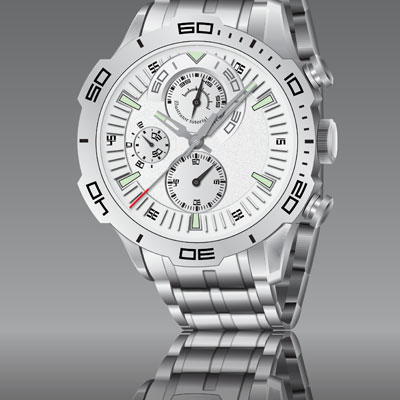
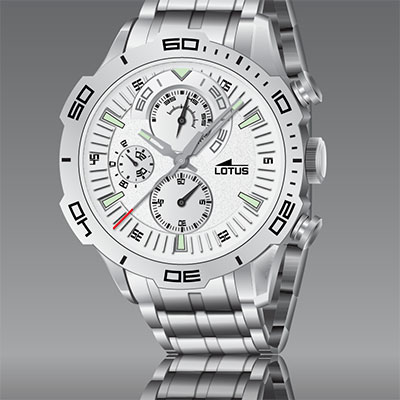
Add lotus

diff --git a/trabajo/lotus/index.html b/trabajo/lotus/index.html
@@ -1,0 +1,103 @@
+<!DOCTYPE html>
+<html>
+	<head>
+		<link href='http://fonts.googleapis.com/css?family=Lato:100,300,400,700,900' rel='stylesheet' type='text/css'>
+		<link rel="stylesheet" href="../../css/normalize.css">
+		<link rel="stylesheet" href="../../css/bootstrap.css">
+		<link rel="stylesheet" href="../../css/style.css">
+		<link rel="stylesheet" href="../../css/icons.css">
+		<meta charset="UTF-8">
+		<meta name="viewport" content="width=device-width, initial-scale=1">
+		<link type="image/vnd.microsoft.icon" rel="shortcut icon" href="../../img/favicon.ico">	
+		<title>Pimpoyo</title>
+	</head>
+	<body>
+		<div class="menu">
+			<a class="navbar-brand" href="file:///Users/pi/Desktop/PFM/web/index.html">
+				<span class="icon-logo"> </span>
+			</a>
+			<nav class="navbar navbar-default navbar-custom" role="navigation">
+    			<div class="navbar-header">
+					<button type="button" class="navbar-toggle collapsed" data-toggle="collapse" data-target="#bs-menu" aria-expanded="false">
+            			<span class="icon-bar"></span>
+            			<span class="icon-bar"></span>
+            			<span class="icon-bar"></span>
+        			</button>
+    			</div>
+    			<div class="collapse navbar-collapse" id="bs-menu">
+        			<ul class="nav nav-stacked">
+						<li id="l1"><a data-hover="Portfolio" href="../../index.html#portfolio" class="portfolio">Portfolio</a></li>
+						<li id="l2"><a data-hover="Sobre.mí" href="../../index.html#sobremi" class="sobre-mi">Sobre mí</a></li>
+						<li id="l3"><a data-hover="Contacto" href="../../index.html#contacto" class="contacto">Contacto</a></li>
+        			</ul>
+    			</div><!-- /.navbar-collapse -->
+			</nav>
+			<nav class="navbar navbar-default navbar-custom secundaria" role="navigation">
+				<a href="https://es-es.facebook.com/people/Ana-Isabel-G%C3%B3mez-Pimpoyo-Fern%C3%A1ndez/100008501859487">
+					<div class="social">
+						<span class="icon-fb"> </span>
+					</div>
+				</a>
+				<a href="https://twitter.com/p1mp0y0">
+					<div class="social">
+						<span class="icon-twitter"> </span>
+					</div>
+				</a>
+				<a href="https://www.linkedin.com/in/ana-isabel-g%C3%B3mez-pimpoyo-fern%C3%A1ndez-7a0b97b3">
+					<div class="social">
+						<span class="icon-linkedin"> </span>
+					</div>
+				</a>
+				<a href="https://github.com/pimpoyo">
+					<div class="social">
+						<span class="icon-github"> </span>
+					</div>
+				</a>
+			</nav>
+			<div class="bottom">
+				<span class="icon-logo-short"> </span>
+			</div>
+		</div>
+		<div class="contenido contenido2">
+			<div class="trabajo-texto">
+				<h1 class="titulo">Lotus</h1>
+				<p>Ilustración vectorial de un reloj</p>
+				<p>Es una ilustración hiperrealista realizada en Adobe Illustrator.</p>
+				<p>Autor: Ana Isabel Gómez-Pimpoyo</p>
+				<p>Fecha: Noviembre 2014</p>
+				<p>Categoría: Diseño gráfico</p>
+			</div>
+			<div class="imagenes">
+				<img id="malla-reloj" src="img/malla-reloj.jpg" alt="img">
+				<img id="detalle-reloj" src="img/detalle-reloj.jpg" alt="img">
+			</div>
+		</div> <!-- contenido -->
+		<footer>
+			<div class="footer">
+				<a href="https://es-es.facebook.com/people/Ana-Isabel-G%C3%B3mez-Pimpoyo-Fern%C3%A1ndez/100008501859487">
+					<div>
+						<span class="icon-fb"> </span>
+					</div>
+				</a>
+				<a href="https://twitter.com/p1mp0y0">
+					<div>
+						<span class="icon-twitter"> </span>
+					</div>
+				</a>
+				<a href="https://www.linkedin.com/in/ana-isabel-g%C3%B3mez-pimpoyo-fern%C3%A1ndez-7a0b97b3">
+					<div>
+						<span class="icon-linkedin"> </span>
+					</div>
+				</a>
+				<a href="https://github.com/pimpoyo">
+					<div>
+						<span class="icon-github"> </span>
+					</div>
+				</a>
+			</div>
+		</footer>
+		<script src="https://ajax.googleapis.com/ajax/libs/jquery/1.11.3/jquery.min.js"></script>
+		<script src="../../js/bootstrap.js"></script>
+		<script src="../../js/validator.js"></script>
+	</body>
+</html>

diff --git a/index.html b/index.html
@@ -84,13 +84,13 @@
 						</a>
 					</div>	
 			    	<div class="ih-item square effect13 bottom_to_top">
-						<a href="#">
+						<a href="trabajo/lotus/index.html">
         					<div class="img">
-								<img src="img/main-artdeco.jpg" alt="img">
+								<img src="img/main-reloj.jpg" alt="img">
 							</div>
         					<div class="info">
-          						<h3>Heading here</h3>
-          						<p>Description goes here</p>
+          						<h3>Gráfico</h3>
+          						<p>Lotus</p>
         					</div>
 						</a>
 					</div>	

diff --git a/js/validator.js b/js/validator.js
@@ -45,8 +45,3 @@ $("#l3").click(function(){
 	$("#l1").removeClass("seccion");
 	$("#bs-menu").removeClass("in");
 });
-
-$('a[href*=#]').on('click', function(event){     
-	    event.preventDefault();
-		    $('html,body').animate({scrollTop:$(this.hash).offset().top}, 500);
-});

diff --git a/css/style.css b/css/style.css
@@ -151,6 +151,16 @@ body {
 	width: 70%;
 }
 
+#malla-reloj {
+	max-width: 1024px;
+	width: 100%;
+}
+
+#detalle-reloj {
+	max-width: 1024px;
+	width: 100%;
+}
+
 #mockup-calendar {
 	width: 50%;
 }
